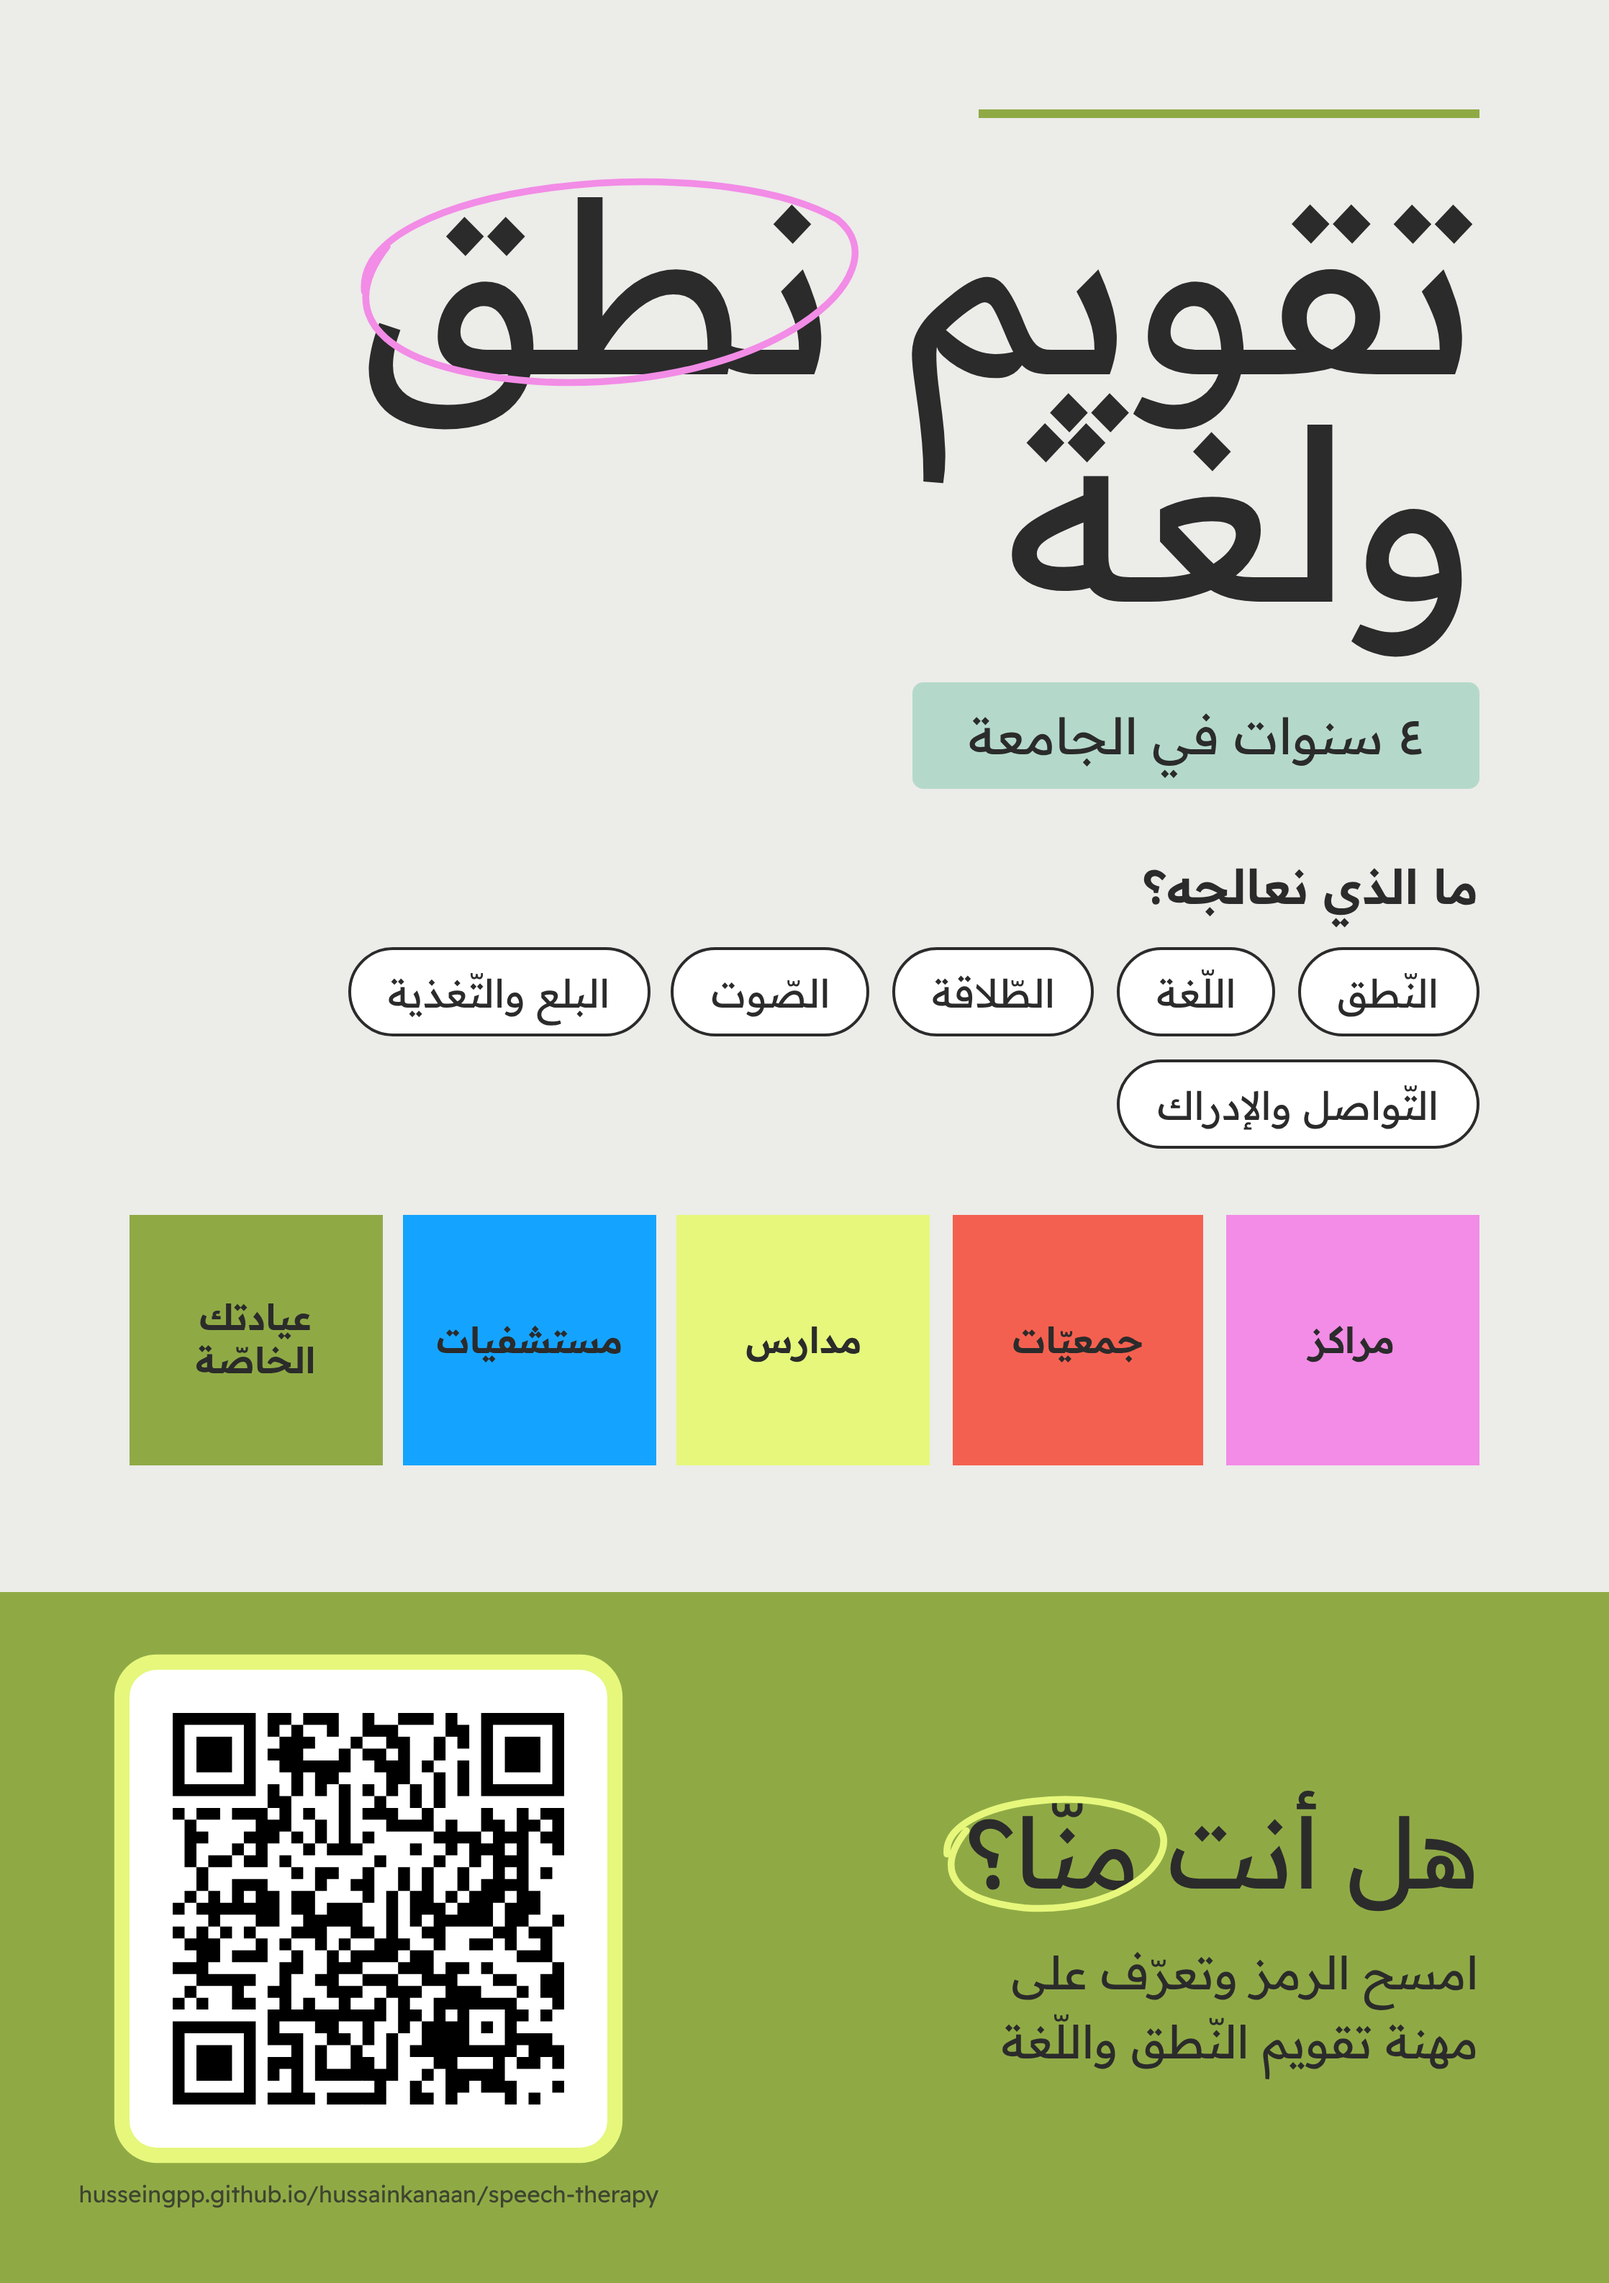
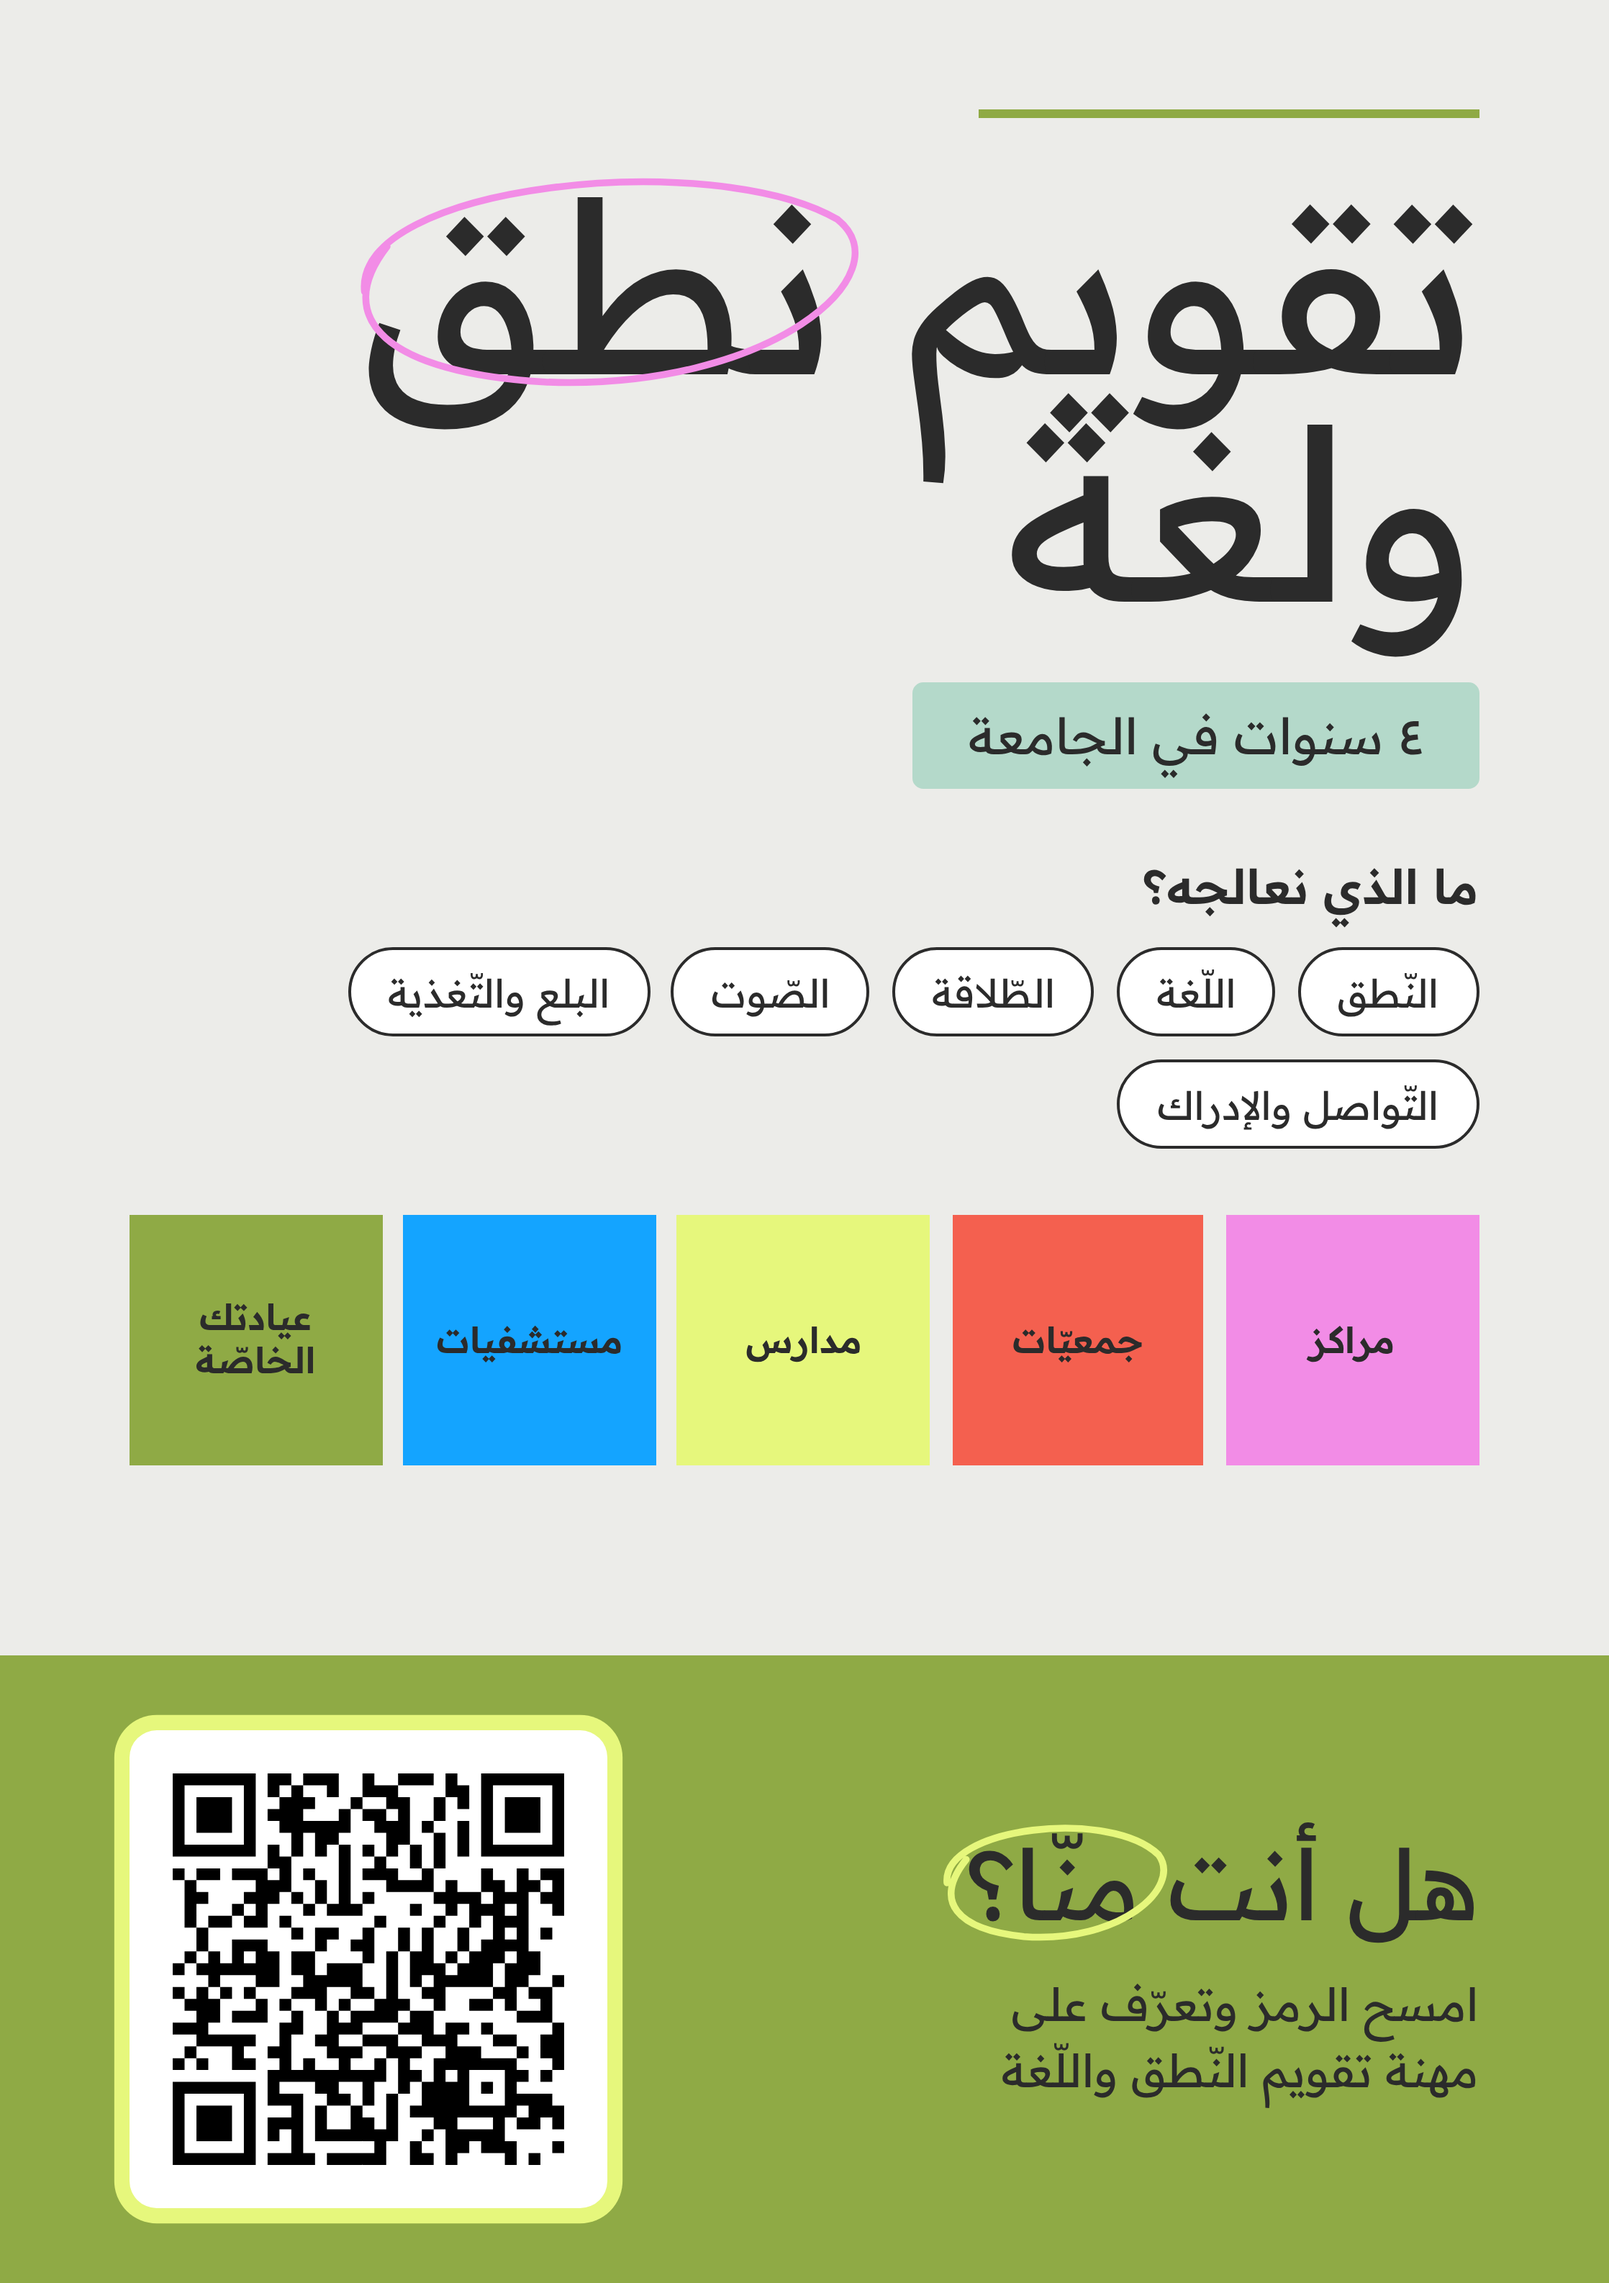
Poster: remove the web address under the QR code
Claude-Session: https://claude.ai/code/session_014sHcLW615NdswircYnNEnu

Changed region(s): [[0.0, 0.6866, 1.0, 0.9987], [0.5863, 0.7803, 0.9258, 0.9363], [0.8023, 0.7803, 0.8332, 0.8115]]

diff --git a/speech-therapy-poster/poster.html b/speech-therapy-poster/poster.html
@@ -53,7 +53,6 @@
   .qr { background: #fff; padding: 4mm; border-radius: 2.5mm;
         box-shadow: 0 0 0 1.4mm var(--lime); }
   .qr img { display: block; width: 36mm; height: 36mm; }
-  .url { margin-top: 3mm; font-size: 2.1mm; white-space: nowrap; direction: ltr; text-align: center; opacity: .8; }
 </style>
 </head>
 <body>
@@ -87,7 +86,6 @@
     </div>
     <div class="qr-wrap">
       <div class="qr"><img src="qr.svg" alt="رمز QR"></div>
-      <div class="url">husseingpp.github.io/hussainkanaan/speech-therapy</div>
     </div>
   </section>
 </div>
